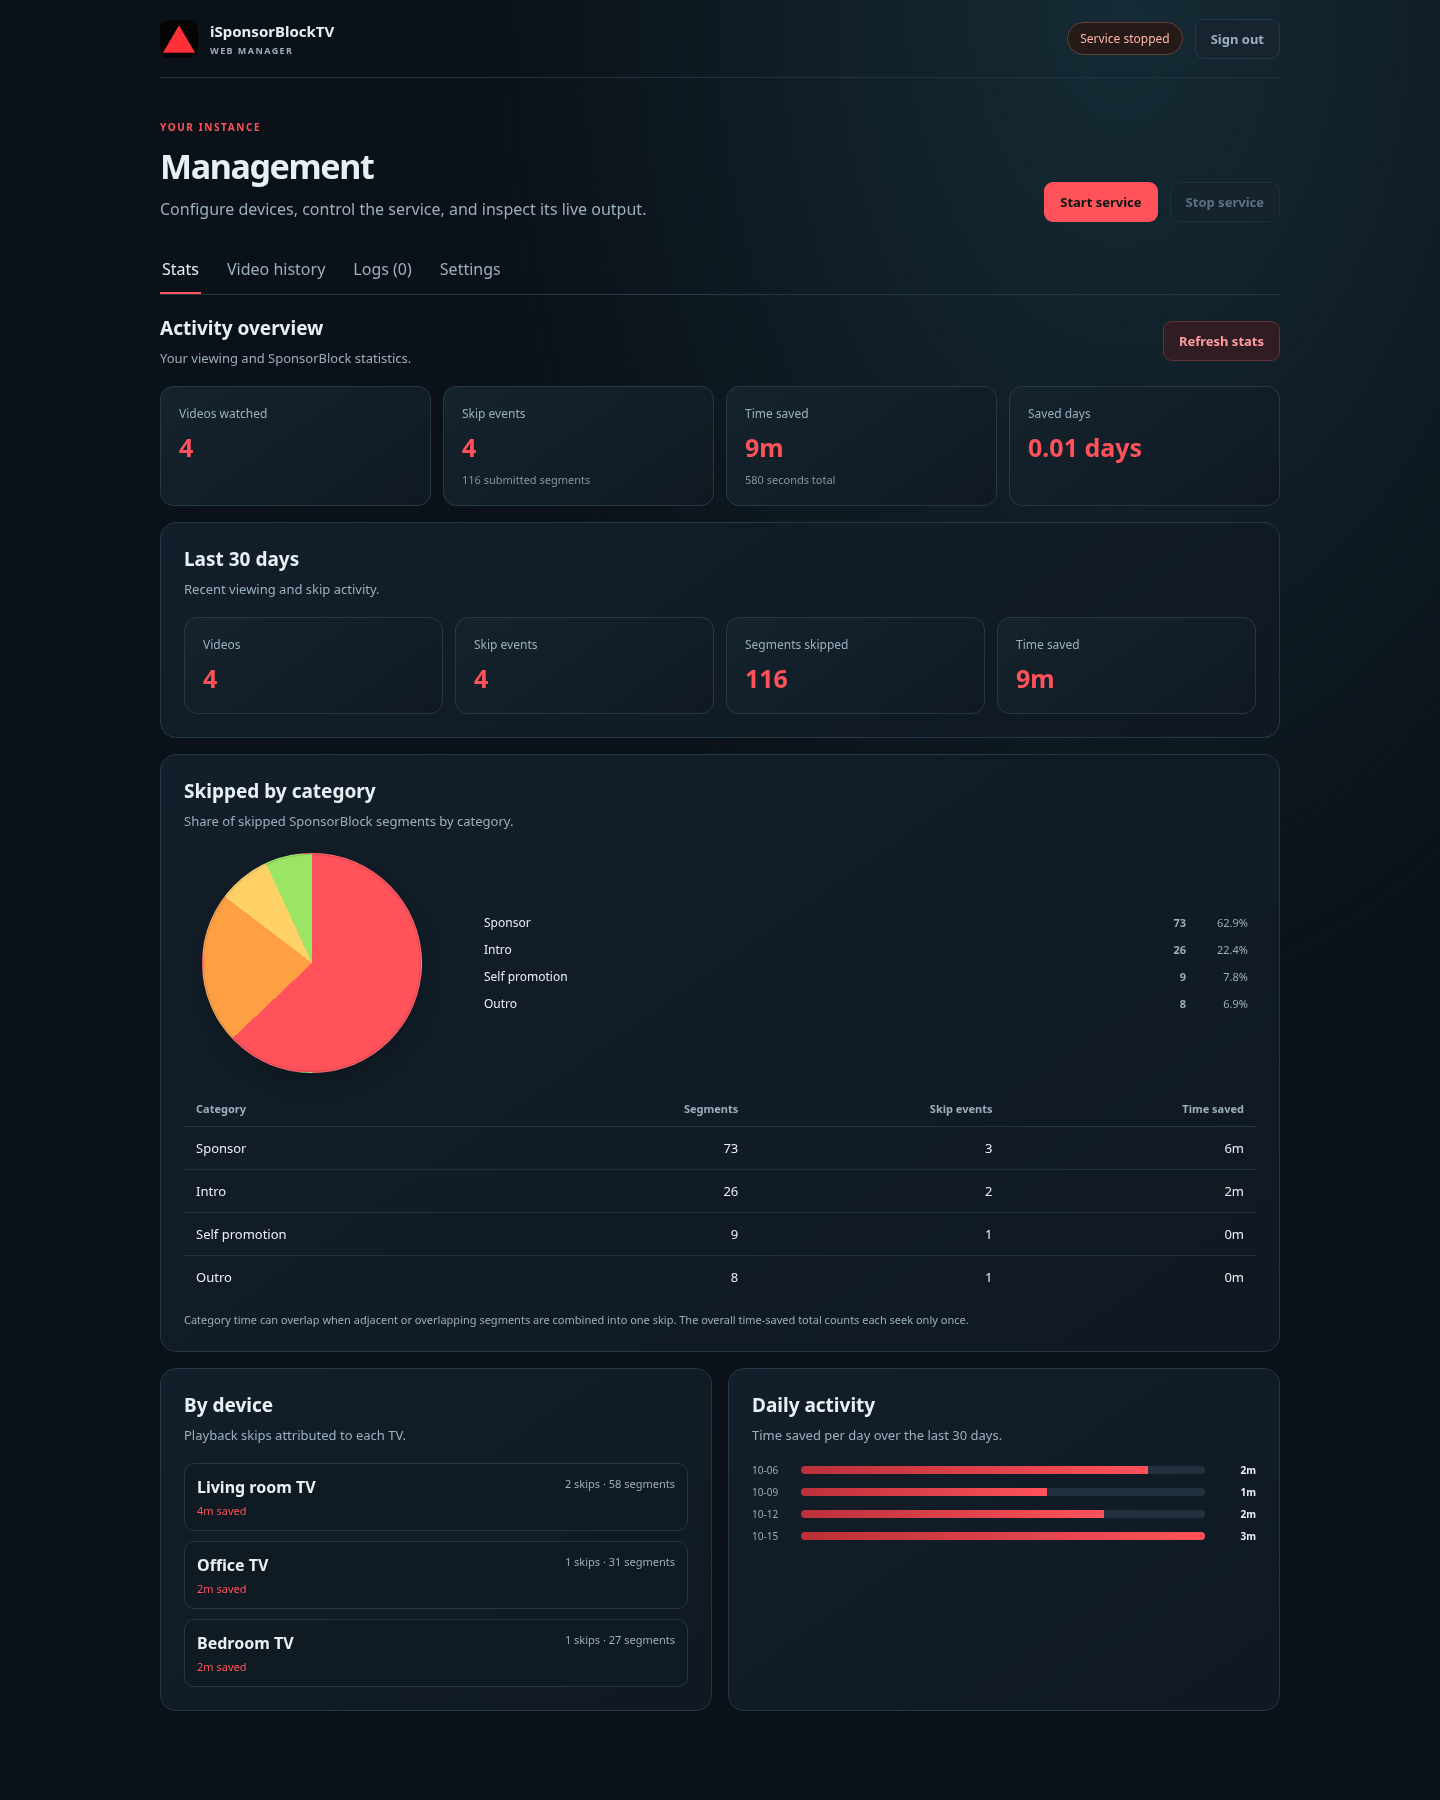
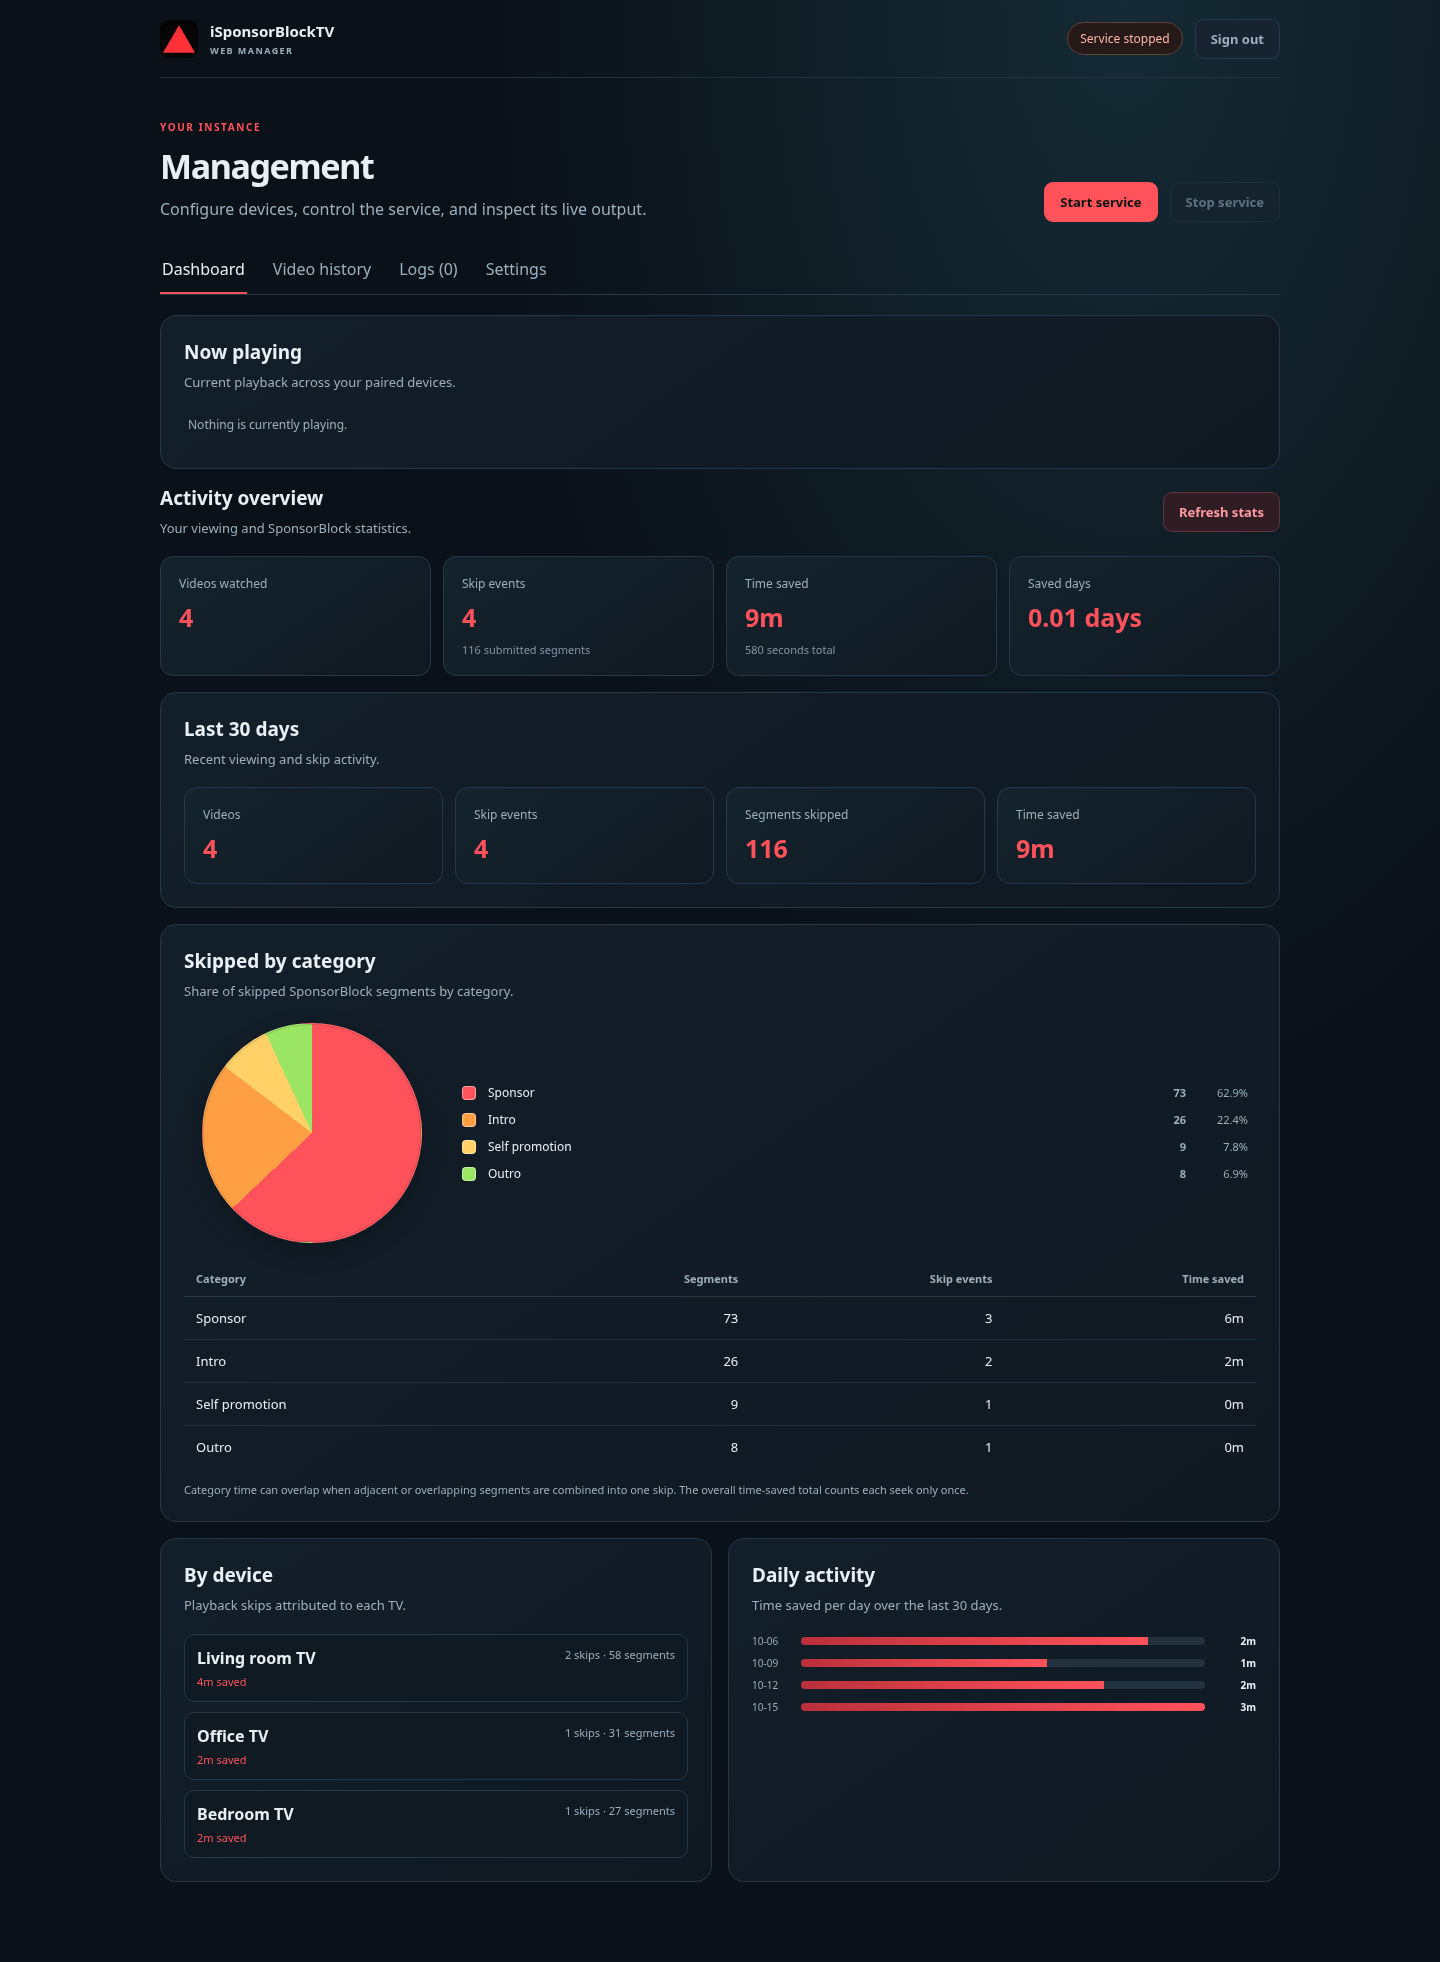
Add current playback dashboard widget

diff --git a/webui/static/app.js b/webui/static/app.js
@@ -72,11 +72,14 @@ async function showApp(token) {
   await refreshService();
   await refreshLogs();
   await refreshStats();
+  await refreshNowPlaying();
   clearInterval(logPolling);
   logPolling = setInterval(() => {
-    if (!document.querySelector("#auto-refresh")?.checked) return;
-    if (!document.querySelector("#logs-tab").hidden) refreshLogs();
+    if (document.querySelector("#auto-refresh")?.checked && !document.querySelector("#logs-tab").hidden) {
+      refreshLogs();
+    }
     refreshService();
+    refreshNowPlaying();
   }, 3000);
 }
 
@@ -258,6 +261,30 @@ function renderMetric(label, value, detail = "") {
   return `<article class="metric-card"><span>${escapeHtml(label)}</span><strong>${escapeHtml(value)}</strong>${detail ? `<small>${escapeHtml(detail)}</small>` : ""}</article>`;
 }
 
+async function refreshNowPlaying() {
+  const content = document.querySelector("#now-playing-content");
+  try {
+    const result = await api("/api/now-playing");
+    content.innerHTML = result.items.length
+      ? result.items.map((item) => `
+        <article class="now-playing-item">
+          <a class="now-playing-thumbnail" href="https://www.youtube.com/watch?v=${encodeURIComponent(item.video_id)}" target="_blank" rel="noopener noreferrer" aria-label="Watch ${escapeHtml(item.title)}">
+            <img src="${escapeHtml(item.thumbnail_url || `https://i.ytimg.com/vi/${encodeURIComponent(item.video_id)}/hqdefault.jpg`)}" alt="" loading="lazy">
+            <span class="play-icon" aria-hidden="true">▶</span>
+          </a>
+          <div class="now-playing-details">
+            <span class="now-playing-indicator"><span></span> PLAYING</span>
+            <a class="now-playing-title" href="https://www.youtube.com/watch?v=${encodeURIComponent(item.video_id)}" target="_blank" rel="noopener noreferrer">${escapeHtml(item.title || item.video_id)}</a>
+            <span class="now-playing-channel">${escapeHtml(item.channel || "Unknown channel")}</span>
+            <span class="now-playing-device">${escapeHtml(item.device)}</span>
+          </div>
+        </article>`).join("")
+      : '<div class="empty-state">Nothing is currently playing.</div>';
+  } catch (error) {
+    content.textContent = `Could not load current playback: ${error.message}`;
+  }
+}
+
 async function refreshStats() {
   const stats = await api("/api/stats");
   const total = stats.totals;
@@ -318,10 +345,10 @@ async function refreshStats() {
       "aria-label",
       `Pie chart of ${totalSegments} skipped segments across ${slices.length} categories`,
     );
-    legend.innerHTML = slices.map((item) => {
+    legend.innerHTML = slices.map((item, index) => {
       const name = categoryNames[item.category] || item.category;
       return `<div class="category-legend-row">
-        <span class="category-swatch" style="--slice-color:${item.color}"></span>
+        <span class="category-swatch category-swatch-${index % palette.length}"></span>
         <span class="category-legend-name">${escapeHtml(name)}</span>
         <strong>${Number(item.segments_skipped) || 0}</strong>
         <small>${item.percent.toFixed(1)}%</small>
@@ -585,7 +612,9 @@ document.querySelectorAll(".tab").forEach((tab) => {
     try {
       if (tab.dataset.tab === "logs") await refreshLogs();
       if (tab.dataset.tab === "history") await refreshHistory();
-      if (tab.dataset.tab === "stats") await refreshStats();
+      if (tab.dataset.tab === "dashboard") {
+        await Promise.all([refreshStats(), refreshNowPlaying()]);
+      }
     } catch (error) {
       notify(error.message, true);
     }
@@ -597,9 +626,9 @@ async function initialize() {
     const state = await api("/api/auth/status");
     if (state.authenticated) {
       await showApp(state.csrf_token);
-      document.querySelectorAll(".tab").forEach((item) => item.classList.toggle("active", item.dataset.tab === "stats"));
+      document.querySelectorAll(".tab").forEach((item) => item.classList.toggle("active", item.dataset.tab === "dashboard"));
       document.querySelectorAll(".tab-content").forEach((section) => {
-        section.hidden = section.id !== "stats-tab";
+        section.hidden = section.id !== "dashboard-tab";
       });
     }
     else showLogin();

diff --git a/webui/static/style.css b/webui/static/style.css
@@ -120,11 +120,33 @@ label:has(input[type="checkbox"]) { flex-direction: row; align-items: center; ga
 .category-pie-layout { display: grid; grid-template-columns: minmax(150px, 240px) minmax(250px, 1fr); align-items: center; gap: 30px; padding: 4px 8px 18px; }
 .category-pie { width: min(100%, 220px); aspect-ratio: 1; justify-self: center; border: 1px solid #ffffff20; border-radius: 50%; background: conic-gradient(#35434f 0deg 360deg); box-shadow: inset 0 0 0 1px #0002, 0 8px 24px #0003; }
 .category-legend { display: grid; gap: 10px; }
-.category-legend-row { display: grid; grid-template-columns: 12px minmax(0, 1fr) 44px 52px; align-items: center; gap: 10px; color: var(--muted); font-size: 12px; }
-.category-swatch { width: 10px; height: 10px; border-radius: 3px; background: var(--slice-color); }
+.category-legend-row { display: grid; grid-template-columns: 16px minmax(0, 1fr) 44px 52px; align-items: center; gap: 10px; color: var(--muted); font-size: 12px; }
+.category-swatch { width: 14px; height: 14px; border: 1px solid #ffffff70; border-radius: 4px; }
+.category-swatch-0 { background: #ff525b; }
+.category-swatch-1 { background: #ff9f43; }
+.category-swatch-2 { background: #ffd166; }
+.category-swatch-3 { background: #9be564; }
+.category-swatch-4 { background: #42d6a4; }
+.category-swatch-5 { background: #43c6db; }
+.category-swatch-6 { background: #5b9dff; }
+.category-swatch-7 { background: #9b79ff; }
+.category-swatch-8 { background: #e879cf; }
+.category-swatch-9 { background: #ff7892; }
 .category-legend-name { color: var(--text); }
 .category-legend-row strong, .category-legend-row small { color: var(--muted); font-size: 11px; text-align: right; }
 .category-pie-layout .empty-state { grid-column: 1 / -1; }
+.now-playing-card { margin-bottom: 16px; }
+.now-playing-card .card-heading { margin-bottom: 12px; }
+.now-playing-content { display: grid; grid-template-columns: repeat(auto-fit, minmax(min(100%, 320px), 1fr)); gap: 12px; }
+.now-playing-item { display: grid; grid-template-columns: minmax(120px, 180px) minmax(0, 1fr); align-items: center; gap: 16px; padding: 12px; border: 1px solid #253847; border-radius: 12px; background: #101a23; }
+.now-playing-thumbnail { position: relative; display: block; aspect-ratio: 16 / 9; overflow: hidden; border: 1px solid var(--border); border-radius: 8px; background: #080d12; }
+.now-playing-thumbnail img { display: block; width: 100%; height: 100%; object-fit: cover; }
+.now-playing-details { display: grid; min-width: 0; gap: 6px; }
+.now-playing-indicator { display: flex; align-items: center; gap: 7px; color: var(--accent); font-size: 10px; font-weight: 700; letter-spacing: .08em; }
+.now-playing-indicator span { width: 8px; height: 8px; border-radius: 50%; background: #ff525b; box-shadow: 0 0 10px #ff525b99; }
+.now-playing-title { overflow: hidden; color: var(--text); font-size: 14px; font-weight: 600; text-decoration: none; text-overflow: ellipsis; white-space: nowrap; }
+.now-playing-title:hover { color: var(--accent); }
+.now-playing-channel, .now-playing-device { color: var(--muted); font-size: 11px; }
 .history-list { display: grid; }
 .history-row { display: grid; grid-template-columns: 144px minmax(0, 1fr) minmax(100px, .4fr) minmax(140px, .5fr); align-items: center; gap: 14px; padding: 15px 4px; border-bottom: 1px solid #20303c; }
 .history-row:last-child { border-bottom: 0; }
@@ -168,6 +190,7 @@ label:has(input[type="checkbox"]) { flex-direction: row; align-items: center; ga
   .history-thumbnail { grid-row: span 2; }
   .history-device { text-align: left; }
   .history-row time { grid-column: 1 / -1; text-align: left; }
+  .now-playing-item { grid-template-columns: 112px minmax(0, 1fr); }
   .pair-row { align-items: stretch; flex-direction: column; }
   .device-row { align-items: stretch; flex-wrap: wrap; }
   .device-row label { min-width: calc(50% - 8px); }

diff --git a/webui/static/index.html b/webui/static/index.html
@@ -47,7 +47,7 @@
         </div>
 
         <nav class="tabs" aria-label="Management sections">
-          <button class="tab active" data-tab="stats" type="button">Stats</button>
+          <button class="tab active" data-tab="dashboard" type="button">Dashboard</button>
           <button class="tab" data-tab="history" type="button">Video history</button>
           <button class="tab" data-tab="logs" type="button">Logs <span id="log-count" class="count"></span></button>
           <button class="tab" data-tab="settings" type="button">Settings</button>
@@ -154,8 +154,16 @@
           </div>
         </section>
 
-        <section id="stats-tab" class="tab-content">
+        <section id="dashboard-tab" class="tab-content">
           <div id="stats-content">
+          <div id="now-playing" class="card now-playing-card">
+            <div class="card-heading">
+              <div><h2>Now playing</h2><p>Current playback across your paired devices.</p></div>
+            </div>
+            <div id="now-playing-content" class="now-playing-content">
+              <div class="empty-state">Nothing is currently playing.</div>
+            </div>
+          </div>
           <div class="card-heading stats-heading">
             <div><h2>Activity overview</h2><p>Your viewing and SponsorBlock statistics.</p></div>
             <button id="refresh-stats" class="button button-secondary" type="button">Refresh stats</button>
@@ -208,6 +216,6 @@
       </section>
       <div id="toast" class="toast" role="status" hidden></div>
     </main>
-    <script src="/static/app.js?v=history-search-logo-logs" defer></script>
+    <script src="/static/app.js?v=dashboard-now-playing" defer></script>
   </body>
 </html>

diff --git a/webui/activity.py b/webui/activity.py
@@ -26,6 +26,11 @@ class ActivityStore:
                 );
                 CREATE INDEX IF NOT EXISTS video_history_started_at
                     ON video_history(started_at DESC);
+                CREATE TABLE IF NOT EXISTS now_playing (
+                    device TEXT PRIMARY KEY,
+                    video_id TEXT NOT NULL,
+                    updated_at TEXT NOT NULL
+                );
                 CREATE TABLE IF NOT EXISTS skip_events (
                     id INTEGER PRIMARY KEY AUTOINCREMENT,
                     video_id TEXT NOT NULL,
@@ -159,6 +164,57 @@ class ActivityStore:
                 """,
                 (title, channel, channel_url, thumbnail_url, video_id, device),
             )
+
+    def set_now_playing(
+        self,
+        video_id: str,
+        device: str,
+        *,
+        playing: bool,
+        now: datetime | None = None,
+    ) -> None:
+        with self._connection() as connection:
+            if playing and video_id:
+                connection.execute(
+                    """
+                    INSERT INTO now_playing (device, video_id, updated_at)
+                    VALUES (?, ?, ?)
+                    ON CONFLICT(device) DO UPDATE SET
+                        video_id = excluded.video_id,
+                        updated_at = excluded.updated_at
+                    """,
+                    (device, video_id, (now or datetime.now(UTC)).isoformat()),
+                )
+            else:
+                connection.execute("DELETE FROM now_playing WHERE device = ?", (device,))
+
+    def now_playing(self, *, max_age_seconds: int = 120) -> list[dict[str, Any]]:
+        cutoff = (datetime.now(UTC) - timedelta(seconds=max_age_seconds)).isoformat()
+        with self._connection() as connection:
+            rows = connection.execute(
+                """
+                SELECT current.device, current.video_id, current.updated_at,
+                    COALESCE(history.title, current.video_id) AS title,
+                    COALESCE(history.channel, '') AS channel,
+                    COALESCE(history.channel_url, '') AS channel_url,
+                    COALESCE(history.thumbnail_url, '') AS thumbnail_url
+                FROM now_playing AS current
+                LEFT JOIN video_history AS history
+                    ON history.id = (
+                        SELECT id FROM video_history
+                        WHERE video_id = current.video_id AND device = current.device
+                        ORDER BY started_at DESC LIMIT 1
+                    )
+                WHERE current.updated_at >= ?
+                ORDER BY current.device
+                """,
+                (cutoff,),
+            ).fetchall()
+        return [dict(row) for row in rows]
+
+    def clear_now_playing(self) -> None:
+        with self._connection() as connection:
+            connection.execute("DELETE FROM now_playing")
 
     def update_video_segment_count(self, video_id: str, device: str, segment_count: int) -> None:
         with self._connection() as connection:

diff --git a/tests/test_activity.py b/tests/test_activity.py
@@ -101,6 +101,35 @@ class ActivityStoreTests(unittest.TestCase):
         self.store.record_video("video-1", "video-1", "Living room", 2)
         self.assertEqual(self.store.history()["items"][0]["title"], "Resolved video title")
 
+    def test_now_playing_tracks_active_devices_and_uses_video_metadata(self) -> None:
+        now = datetime.now(UTC)
+        self.store.record_video(
+            "video-1",
+            "Current video",
+            "Living room",
+            0,
+            channel="Example channel",
+            thumbnail_url="https://example.com/thumb.jpg",
+            now=now,
+        )
+        self.store.set_now_playing("video-1", "Living room", playing=True, now=now)
+
+        current = self.store.now_playing()
+
+        self.assertEqual(len(current), 1)
+        self.assertEqual(current[0]["title"], "Current video")
+        self.assertEqual(current[0]["channel"], "Example channel")
+        self.assertEqual(current[0]["thumbnail_url"], "https://example.com/thumb.jpg")
+
+        self.store.set_now_playing("video-1", "Living room", playing=False)
+        self.assertEqual(self.store.now_playing(), [])
+
+    def test_now_playing_ignores_stale_playback_updates(self) -> None:
+        stale = datetime.now(UTC) - timedelta(minutes=5)
+        self.store.set_now_playing("video-1", "Living room", playing=True, now=stale)
+
+        self.assertEqual(self.store.now_playing(), [])
+
     def test_existing_activity_database_migrates_video_metadata_columns(self) -> None:
         legacy_path = Path(self.temporary_directory.name) / "legacy.sqlite3"
         with sqlite3.connect(legacy_path) as connection:

diff --git a/webui/app.py b/webui/app.py
@@ -468,6 +468,13 @@ async def get_statistics() -> dict[str, Any]:
     return activity_store.stats()
 
 
+@app.get("/api/now-playing", dependencies=[Depends(require_auth)])
+async def get_now_playing() -> dict[str, Any]:
+    if not service.status()["running"]:
+        return {"items": []}
+    return {"items": activity_store.now_playing()}
+
+
 async def _upstream_api_helper() -> tuple[aiohttp.ClientSession, api_helpers.ApiHelper]:
     settings = Config(str(DATA_DIR))
     session = aiohttp.ClientSession(trust_env=settings.use_proxy)

diff --git a/webui/runner.py b/webui/runner.py
@@ -103,6 +103,7 @@ def install_activity_hooks(store: ActivityStore) -> None:
     async def process_playstatus(self, state: Any, time_start: float):
         video_id = getattr(state, "videoId", "") or ""
         is_playing = getattr(getattr(state, "state", None), "value", None) == 1
+        store.set_now_playing(video_id, self.name, playing=is_playing)
         if video_id and is_playing:
             self._webui_current_video_id = video_id
             self.api_helper._webui_listeners = getattr(

diff --git a/README.md b/README.md
@@ -147,8 +147,8 @@ saved logs.
 - Video history with direct YouTube links and statistics for watched videos,
   thumbnails, public video titles and channel names, skipped segments by
   category and device, skip events, and estimated time saved overall and over
-  the last 30 days. The Stats tab is the first page shown after sign-in and
-  includes daily and category graphs.
+  the last 30 days. The Dashboard tab is the first page shown after sign-in and
+  includes a current playback widget and daily and category graphs.
 - Activity is recorded from the time this version is installed; the upstream
   service does not provide older playback history to backfill. Video metadata
   is looked up using YouTube's public oEmbed endpoint.
